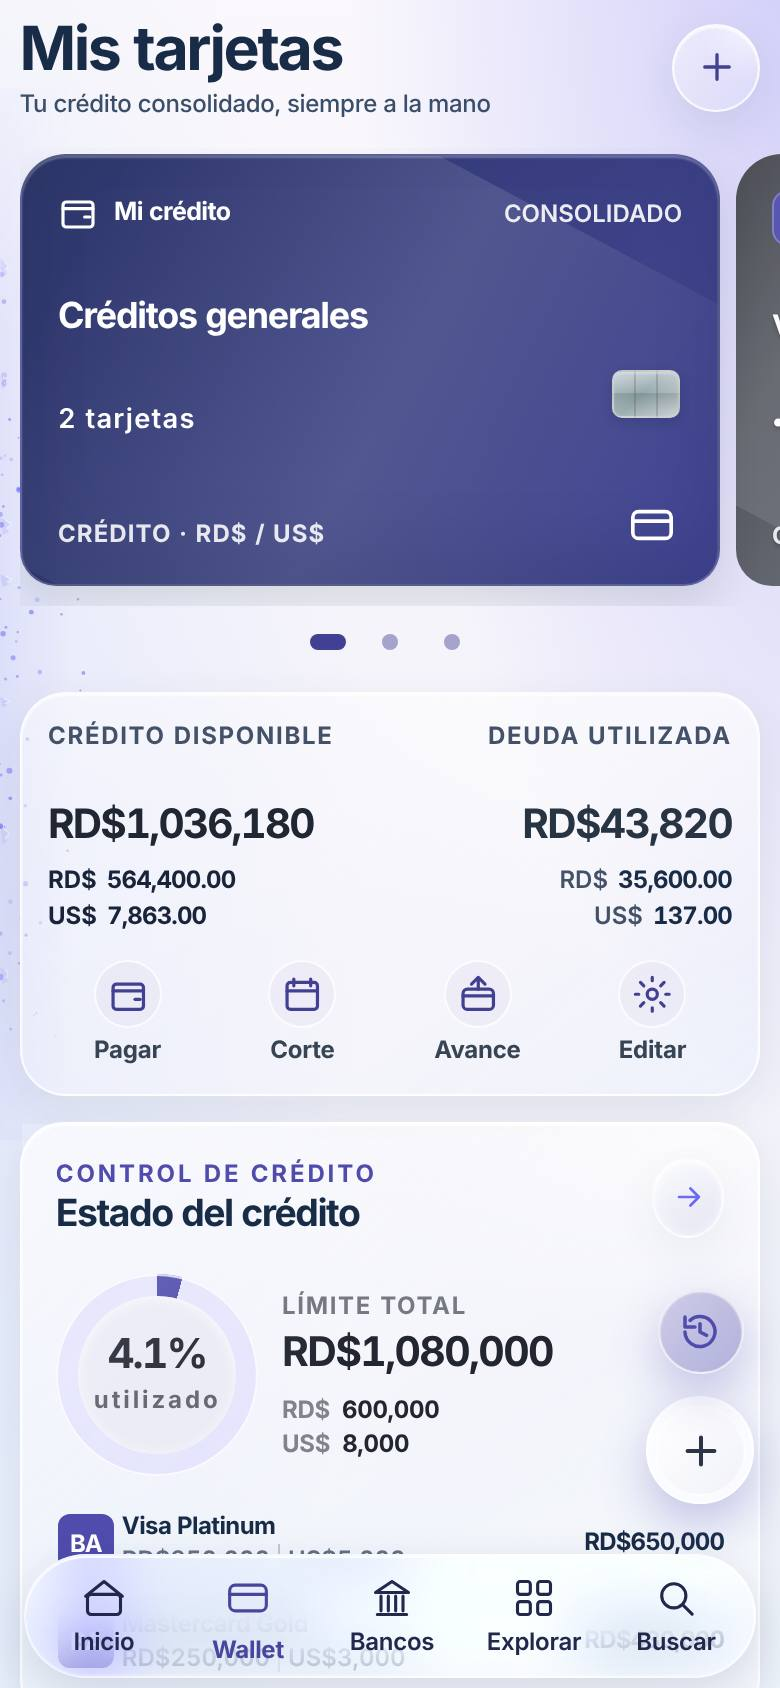
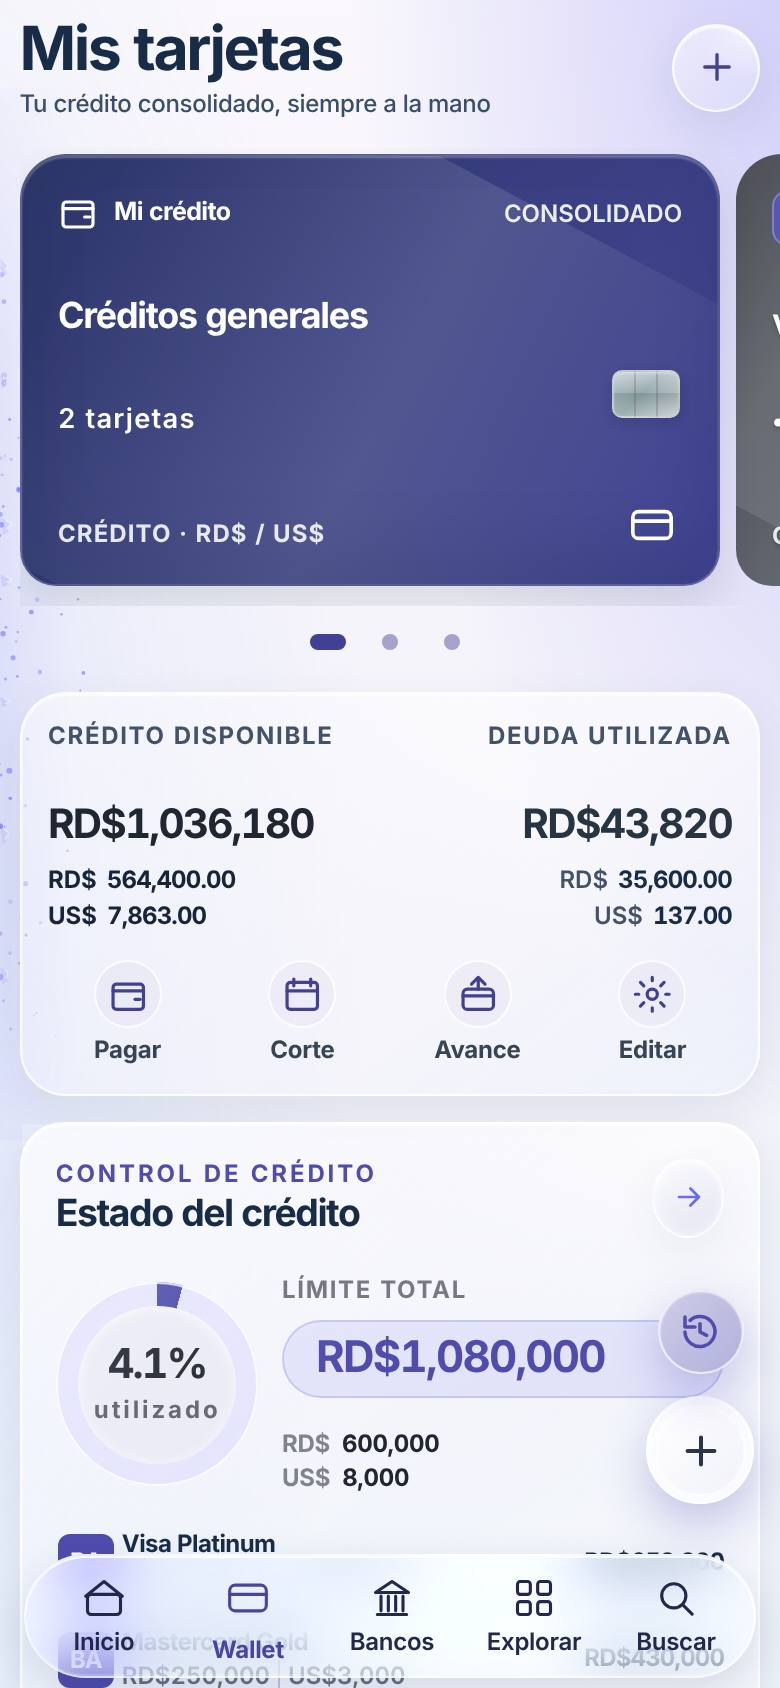
Wallet móvil: importe de Límite total en cápsula (estilo Faltan N días / Participación)
Claude-Session: https://claude.ai/code/session_01AwzF8JXGCqasa7rHAy2PHn

diff --git a/src/wallet-cut-consumption.css b/src/wallet-cut-consumption.css
@@ -32,3 +32,7 @@ html body #app#app#app main.world-wallet #page#page .v1301-distribution .v1301-t
 html body #app#app#app main.world-wallet #page#page .v1301-distribution .v1301-total>.v1301-split>span+span::before{content:"·";margin-right:12px;opacity:.55}
 html body #app#app#app main.world-wallet #page#page .v1301-distribution .wallet-consumption-hero{margin:2px 0 4px!important}
 }
+/* Estado del crédito · Límite total en cápsula (mismo lenguaje que "Faltan N días" y Participación) */
+@media(max-width:790px){
+html body #app#app#app main.world-wallet #page#page .v1244-limits>strong{display:inline-flex!important;align-items:center;width:auto!important;max-width:100%;padding:6px 16px!important;margin:4px 0 6px!important;border-radius:999px;font-size:clamp(20px,5.6vw,26px)!important;line-height:1.15!important;font-variant-numeric:tabular-nums;color:var(--vx-accent-ink,var(--v1301-ink,var(--text)))!important;background:color-mix(in srgb,var(--vive-theme-color,var(--accent,#087b72)) 13%,transparent);border:1px solid color-mix(in srgb,var(--vive-theme-color,var(--accent,#087b72)) 24%,transparent);white-space:nowrap}
+}

diff --git a/index.html b/index.html
@@ -41,7 +41,7 @@
 <link rel="stylesheet" href="./src/wallet-mobile-approved.css?v=41" media="(max-width: 790px)"/>
 <link rel="stylesheet" href="./src/wallet-mobile-top.css?v=101.1.6" media="(max-width: 790px)"/>
 <link rel="stylesheet" href="./src/movimientos-desktop.css?v=711" media="(min-width: 791px)"/>
-<link rel="stylesheet" href="./src/wallet-cut-consumption.css?v=24"/>
+<link rel="stylesheet" href="./src/wallet-cut-consumption.css?v=25"/>
 <link rel="stylesheet" href="./src/liquid-material.css?v=21.131"/>
 <link rel="stylesheet" href="./src/expenses-pc-glass.css?v=2012" media="(min-width: 791px)"/>
 <link rel="stylesheet" href="./src/explore-mobile-glass.css?v=74" media="(max-width: 790px)"/>
